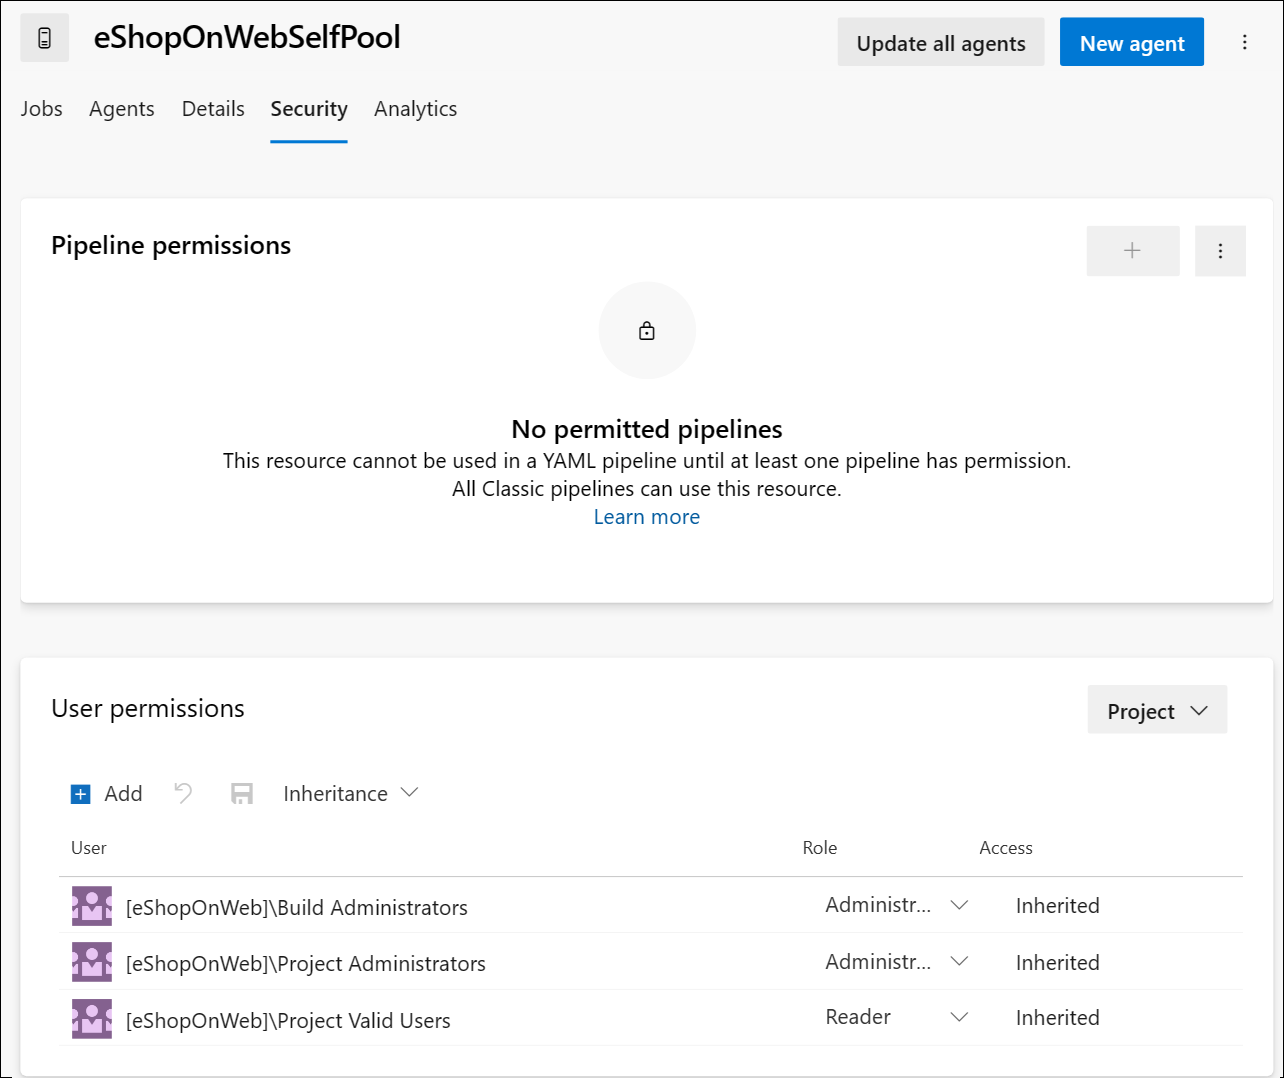
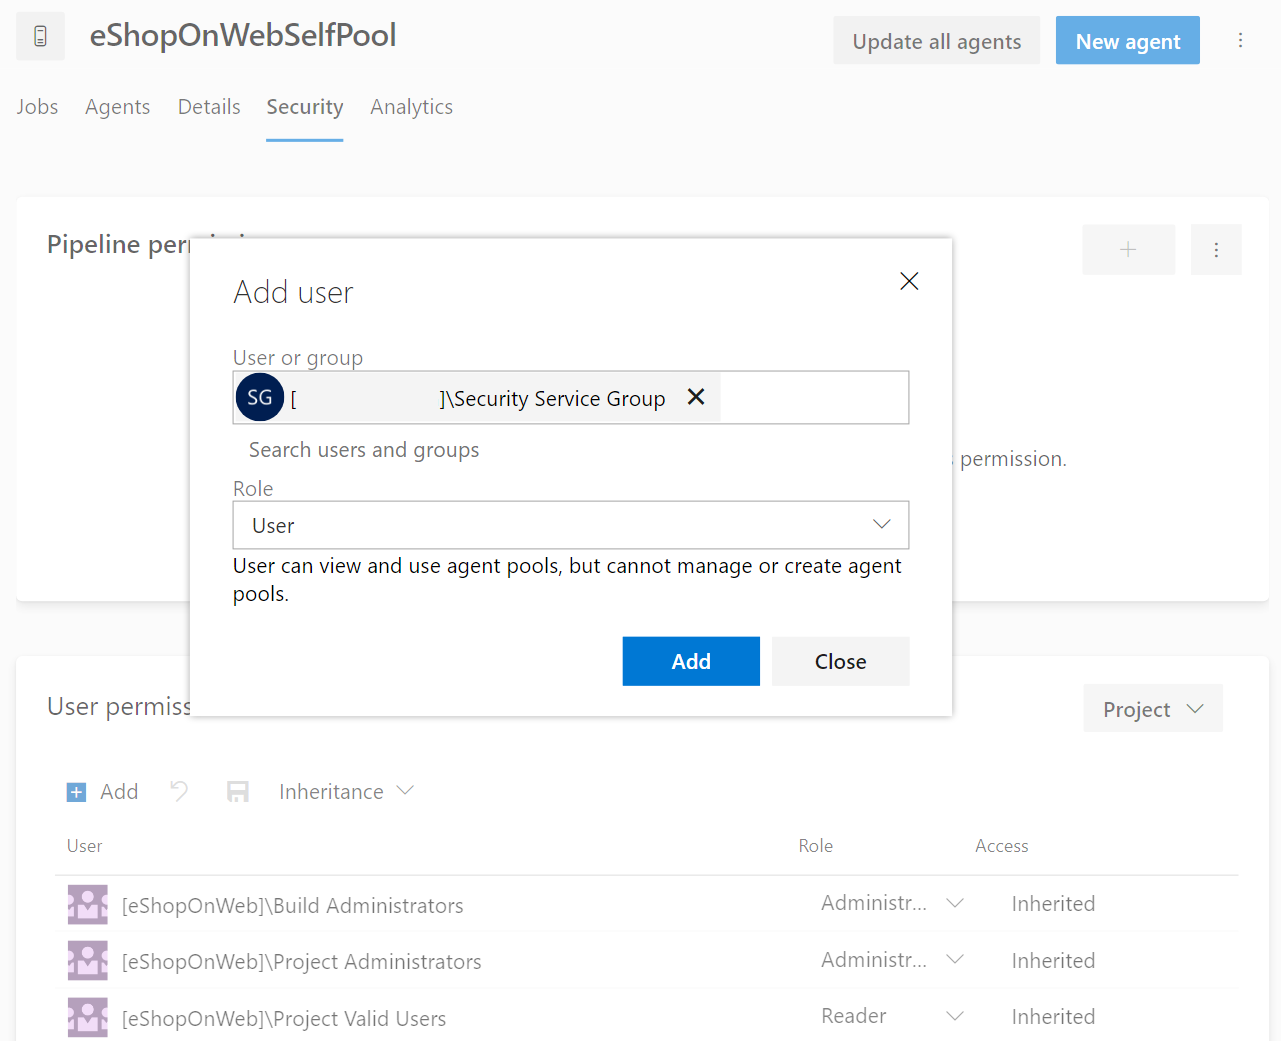
Updating lab 1 steps, and nomenclature

diff --git a/Instructions/Labs/APL2001_M01_L01_Configure_Agents_And_Agent_Pools_for_Secure_Pipelines.md b/Instructions/Labs/APL2001_M01_L01_Configure_Agents_And_Agent_Pools_for_Secure_Pipelines.md
@@ -1,10 +1,10 @@
 ---
 lab:
-    title: 'Learning Lab: Configure agents and agent pools for secure pipelines'
+    title: 'Lab: Configure agents and agent pools for secure pipelines'
     module: 'Module 1: Configure secure access to pipeline resources'
 ---
 
-# Learning Lab: Configure agents and agent pools for secure pipelines
+# Lab: Configure agents and agent pools for secure pipelines
 
 In this lab, you will learn how to configure Azure DevOps agents and agent Pools and manage permissions for those pools. Azure DevOps Agent Pools provide the resources to run your build and release pipelines.
 
@@ -30,6 +30,8 @@ During the configuration, keep in mind the following:
 - **Prioritize security**: To safeguard your systems, use the least privileged account to run self-hosted agents. For instance, consider using your machine account or a managed service identity. It's also advisable to allow Azure Pipelines to handle access to secrets and environments.
 
 ### Exercise 1: Create agents and configure agent pools
+
+In this exercise, you will create an agent and configure agent pools.
 
 1. Navigate to the Azure DevOps portal at https://dev.azure.com and sign in with your account.
 2. Choose the organization you want to work with.
@@ -118,24 +120,40 @@ During the configuration, keep in mind the following:
 
 For more details on Windows agents, see: [Self-hosted Windows agents](https://learn.microsoft.com/azure/devops/pipelines/agents/windows-agent)
 
-### Exercise 2: Manage agent pool permissions
+### Exercise 2: Create and configure a new security group for the agent pool
+
+In this exercise, you will create a new security group for the agent pool.
+
+1. Open the eShopOnWeb project, and click on "Project settings" from the left-side bottom menu.
+2. Open Permissions under General.
+3. Click on the "New Group" button.
+4. Provide a name for the group, such as "eShopOnWeb Security Group".
+5. Add the users you want to be part of the group.
+6. Click on the "Create" button to create the group.
+
+    ![Screenshot showing the security group creation.](media/create-security-group.png)
+7. Open the new group and click on the "Settings" tab.
+8. Deny unnecessary permissions for the group, such as "Rename team project", "Permanently delete work items", or any other permissions you don't want the group to have since it is used only for the agent pool.
+
+> [!IMPORTANT]
+> If you leave permissions you don't want the group to have, scripts or tasks running on the agent can use the group permissions to perform actions you don't want them to perform.
+
+### Exercise 3: Manage agent pool permissions
 
 In this exercise, you will manage permissions for the agent pool.
 
 1. Open the eShopOnWeb project, and click on "Project settings" from the left-side bottom menu.
 2. Select Pipelines, and then select Agent pools.
-3. Click on the "eShopOnWebSelfPool" agent pool created in Exercise 1.
+3. Click on the "eShopOnWebSelfPool" agent pool.
 4. In the agent pool details view, click on the Security tab.
-5. You can choose to add users or group permissions to the specific project or the entire Azure DevOps organization.
-6. Click the Add button to add a new user or group to the agent pool's permissions.
-7. Select the desired user or group from the list.
-8. Choose the appropriate role for the user or group, such as Agent Pool Reader, User or Administrator.
-9. The changes are saved automatically.
+5. Click the Add button and add the new group "eShopOnWeb Security Group" to the agent pool's user permissions.
+6. You can choose to add users or group permissions to the specific project or the entire Azure DevOps organization. In this case, choose **Project**.
+7. Choose the appropriate role for the user or group, such as Agent Pool Reader, User or Administrator. In this case, choose **User**.
+8. Click Add to apply the permissions.
 
     ![Screenshot showing the agent pool security configuration.](media/agent-pool-security.png)
 
-> [!NOTE]
-> If you have YAML pipelines created in the project, you can allow specific pipeline permissions for the agent pool.
+You are now ready to securely use the agent pool in your pipelines. For more details on agent pools, see: [Agent pools](https://learn.microsoft.com/azure/devops/pipelines/agents/pools-queues).
 
 ## Review
 

diff --git a/Instructions/Labs/APL2001_M00_Validate_Lab_Environment.md b/Instructions/Labs/APL2001_M00_Validate_Lab_Environment.md
@@ -1,12 +1,12 @@
 ---
 lab:
-    title: 'Learning Lab: Validate your lab environment'
+    title: 'Lab: Validate your lab environment'
     module: 'Module 0: Welcome'
 ---
 
-# Learning Lab: Validate your lab environment
+# Lab: Validate your lab environment
 
-In preparation for the learning labs, it is crucial to have your environment correctly set up. This page will guide you through the setup process, ensuring all prerequisites are met.
+In preparation for the labs, it is crucial to have your environment correctly set up. This page will guide you through the setup process, ensuring all prerequisites are met.
 
 - The labs require **Microsoft Edge** or an [Azure DevOps-supported browser.](https://learn.microsoft.com/azure/devops/server/compatibility?view=azure-devops#web-portal-supported-browsers)
 
@@ -42,7 +42,7 @@ In preparation for the learning labs, it is crucial to have your environment cor
 
 > **Note**: make sure you completed the steps to create your Azure DevOps Organization before continuing with these steps.
 
-To follow all learning lab instructions, you'll need set up a new Azure DevOps project and create a repository that's based on the [eShopOnWeb](https://github.com/MicrosoftLearning/eShopOnWeb) application.
+To follow all lab instructions, you'll need set up a new Azure DevOps project and create a repository that's based on the [eShopOnWeb](https://github.com/MicrosoftLearning/eShopOnWeb) application.
 
 ### Create and configure the team project
 
@@ -77,4 +77,4 @@ Now, you'll import the eShopOnWeb into your git repository.
     - **.github** folder container YAML GitHub workflow definitions.
     - **src** folder contains the .NET 6 website used on the lab scenarios.
 
-You have now completed the necessary prerequisite steps to continue with the learning labs.
+You have now completed the necessary prerequisite steps to continue with the labs.

diff --git a/Instructions/Labs/APL2001_M06_L06_Configure_Pipelines_to_Securely_Use_Variables_and_Parameters.md b/Instructions/Labs/APL2001_M06_L06_Configure_Pipelines_to_Securely_Use_Variables_and_Parameters.md
@@ -1,10 +1,10 @@
 ---
 lab:
-    title: 'Learning Lab: Configure pipelines to securely use variables and parameters'
+    title: 'Lab: Configure pipelines to securely use variables and parameters'
     module: 'Module 6: Configure pipelines to securely use variables and parameters'
 ---
 
-# Learning Lab: Configure pipelines to securely use variables and parameters
+# Lab: Configure pipelines to securely use variables and parameters
 
 In this lab, explore the importance of configuring pipelines to use variables and parameters securely in Azure DevOps. This lab covers fundamental concepts and best practices for ensuring that parameters and variables retain their type, identifying and restricting insecure use of parameters and variables, moving parameters into a YAML file that protects their type, limiting variables that can be set at queue time, and validating that mandatory variables are present and set correctly.
 

diff --git a/Instructions/Labs/APL2001_M04_L04_Configure_a_Project_and_Repository_Structure_to_Support_Secure_Pipelines.md b/Instructions/Labs/APL2001_M04_L04_Configure_a_Project_and_Repository_Structure_to_Support_Secure_Pipelines.md
@@ -1,10 +1,10 @@
 ---
 lab:
-    title: 'Learning Lab: Configure a project and repository structure to support secure pipelines'
+    title: 'Lab: Configure a project and repository structure to support secure pipelines'
     module: 'Module 4: Configure a project and repository structure to support secure pipelines'
 ---
 
-# Learning Lab: Configure a project and repository structure to support secure pipelines
+# Lab: Configure a project and repository structure to support secure pipelines
 
 In this lab, explore the importance of configuring a secure project and repository structure to support pipelines in Azure DevOps. This lab covers fundamental concepts and best practices for organizing the project and repository structure and moving the security repository away from the application project.
 

diff --git a/Instructions/Labs/APL2001_M05_L05_Extend_a_Pipeline_to_Use_Multiple_Templates.md b/Instructions/Labs/APL2001_M05_L05_Extend_a_Pipeline_to_Use_Multiple_Templates.md
@@ -1,10 +1,10 @@
 ---
 lab:
-    title: 'Learning Lab: Extend a pipeline to use multiple templates'
+    title: 'Lab: Extend a pipeline to use multiple templates'
     module: 'Module 5: Extend a pipeline to use multiple templates'
 ---
 
-# Learning Lab: Extend a pipeline to use multiple templates
+# Lab: Extend a pipeline to use multiple templates
 
 In this lab, explore the importance of extending a pipeline to multiple templates and how to do it using Azure DevOps. This lab covers fundamental concepts and best practices for creating nested templates, rewriting the main deployment pipeline, configuring the pipeline and the application to use tokenization, removing plain text secrets, restricting agent logging, and identifying and conditionally removing script tasks.
 

diff --git a/Instructions/Labs/APL2001_M07_L07_Manage_Identity_for_Projects_Pipelines_and_Agents.md b/Instructions/Labs/APL2001_M07_L07_Manage_Identity_for_Projects_Pipelines_and_Agents.md
@@ -1,10 +1,10 @@
 ---
 lab:
-    title: 'Learning Lab: Manage identity for projects, pipelines, and agents'
+    title: 'Lab: Manage identity for projects, pipelines, and agents'
     module: 'Module 7: Manage identity for projects, pipelines, and agents'
 ---
 
-# Learning Lab: Manage identity for projects, pipelines, and agents
+# Lab: Manage identity for projects, pipelines, and agents
 
 In this lab, explore the importance of managing identity for projects, pipelines, and agents in Azure DevOps. This lab covers fundamental concepts and best practices for configuring Microsoft-hosted agents and pools, configuring agents for projects, configuring agent identities, configuring the scope of a service connection, and converting to a managed identity.
 

diff --git a/Instructions/Labs/APL2001_M02_L02_Configure_Secure_Access_to_Azure_Repos_from_Pipelines.md b/Instructions/Labs/APL2001_M02_L02_Configure_Secure_Access_to_Azure_Repos_from_Pipelines.md
@@ -1,10 +1,10 @@
 ---
 lab:
-    title: 'Learning Lab: Configure secure access to Azure Repos from pipelines'
+    title: 'Lab: Configure secure access to Azure Repos from pipelines'
     module: 'Module 2: Configure secure access to Azure Repos from pipelines'
 ---
 
-# Learning Lab: Configure secure access to Azure Repos from pipelines
+# Lab: Configure secure access to Azure Repos from pipelines
 
 In this lab, understand the importance of securing access to Azure Repos from pipelines and how to do it using Azure DevOps. This lab covers fundamental concepts and best practices for securing access to packages, credential secrets, secrets for services, and Azure Key Vault.
 

diff --git a/Instructions/Labs/APL2001_M03_L03_Configure_and_Validate_Permissions.md b/Instructions/Labs/APL2001_M03_L03_Configure_and_Validate_Permissions.md
@@ -1,10 +1,10 @@
 ---
 lab:
-    title: 'Learning Lab: Configure and validate permissions'
+    title: 'Lab: Configure and validate permissions'
     module: 'Module 3: Configure and validate permissions'
 ---
 
-# Learning Lab: Configure and validate permissions
+# Lab: Configure and validate permissions
 
 In this lab, explore the importance of configuring and validating permissions for users, pipelines, and approvals in Azure DevOps. This lab covers critical concepts and best practices for configuring and validating user permissions, pipeline permissions, approval and branch checks, and auditing and managing permissions.
 
